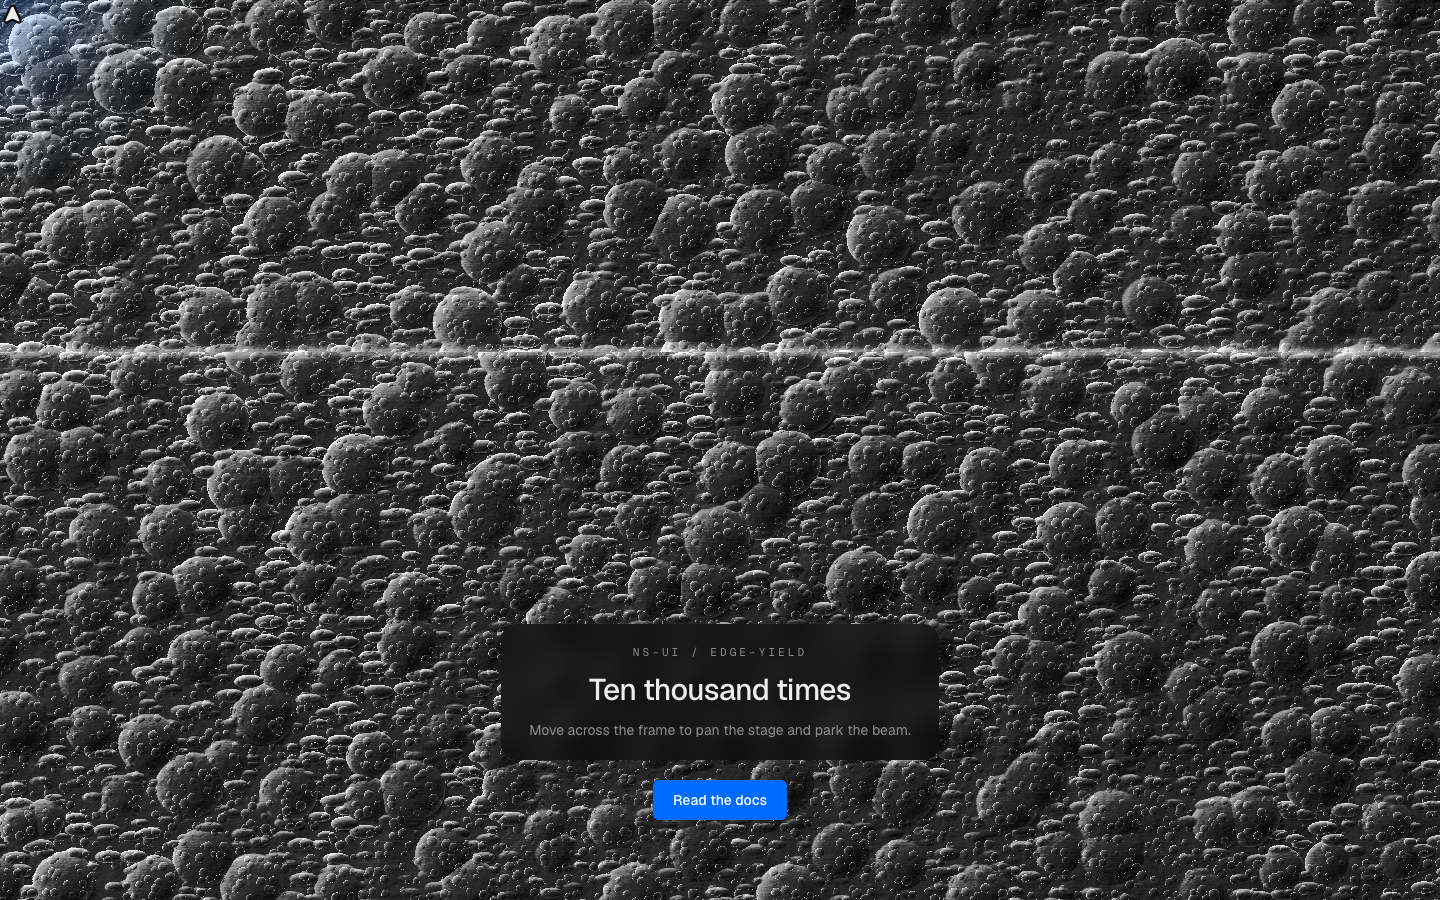
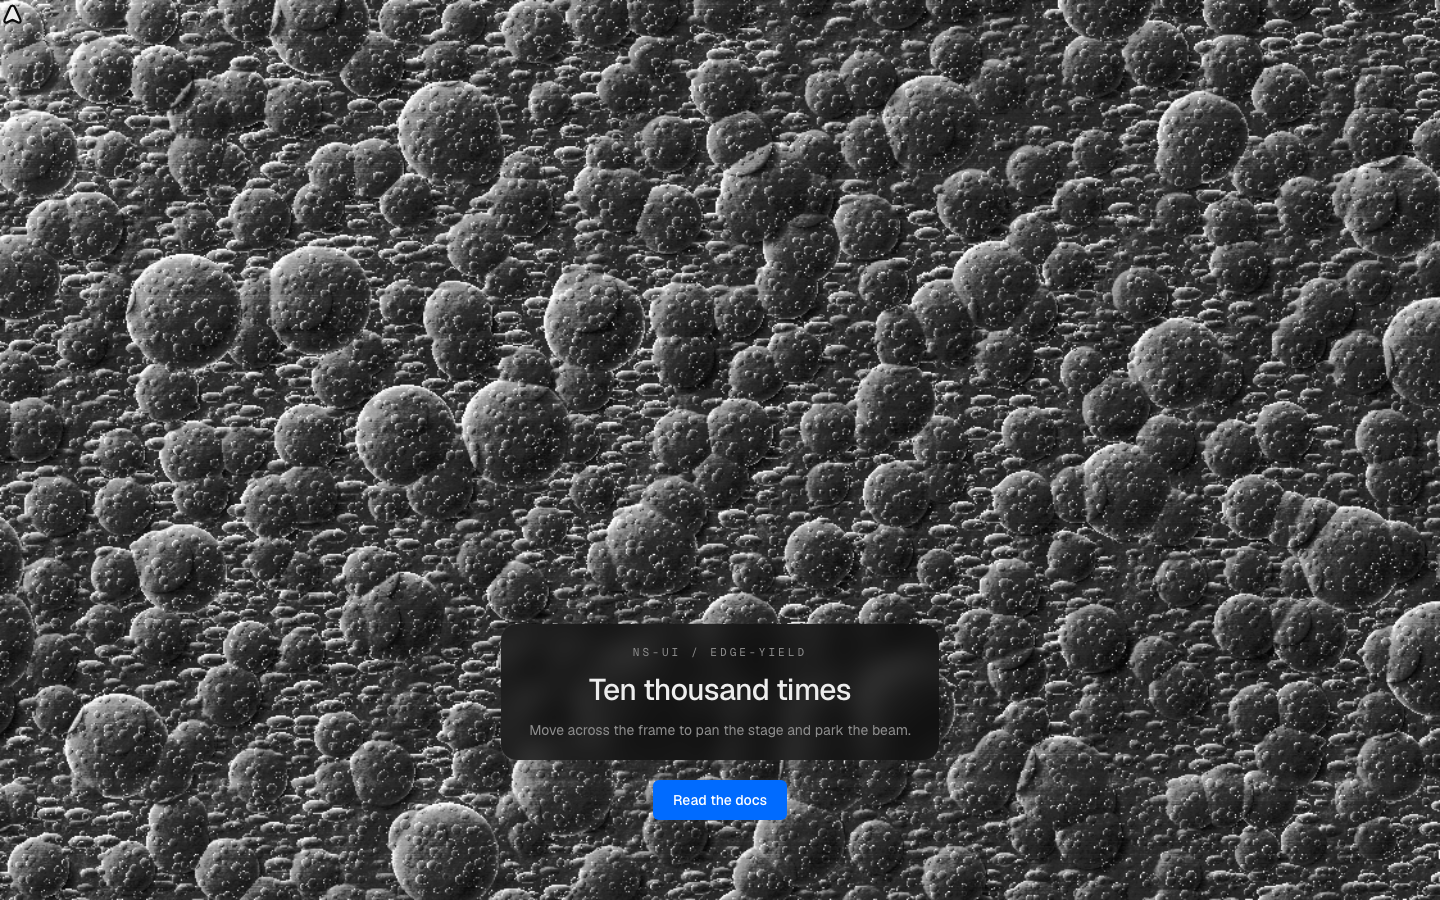
feat(edge-yield): full-bleed scanning-electron-micrograph background
Dense micro-landscape at 10,000x: edge brightening where the beam escapes at
steep angles, deep crevices, scan-line acquisition texture, secondary-electron
grain, pointer pans the stage. An SEM maps electron yield to luminance rather
than colour, so the monochrome palette is authentic rather than a constraint.

Holds vsync at full 2880x1800 with the render ladder idle: 16.7ms p50, 0/480
frames over 20ms at rest, 0/700 under sustained panning, A/B identical to
dye-whorl. The earlier 20.9ms reading was an artifact — gl.finish, readPixels
and EXT_disjoint_timer_query all return a flat 13-21ms on this stack
regardless of draw count or viewport.

diff --git a/registry/loud/edge-yield/component.tsx b/registry/loud/edge-yield/component.tsx
@@ -24,8 +24,8 @@ import { useEffect, useId, useRef } from "react";
 //                        electrons reach an Everhart-Thornley detector sitting
 //                        off to one upper-left corner. Facets turned away from
 //                        it are dim; anything with a grain between it and the
-//                        detector is in a deep, hard shadow, found by a five-
-//                        step horizon march reaching ~1.7 grain radii.
+//                        detector is in a deep, hard shadow, found by a three-
+//                        step horizon march reaching ~2 grain radii.
 //
 // Everything is in focus at once because nothing here has a lens — that
 // extreme depth of field is a property of the technique, not a choice.
@@ -132,6 +132,10 @@ const vec3 DET = vec3(-0.593, -0.526, 0.610);
 // of t moves length(DET.xy) horizontally, this is DET.z, not tan(elevation)
 const float DET_RISE = 0.610;
 
+// Ceiling, in css px, on how far the stage's motion may shear the picture
+// across the sweep line. See the note at the shear itself in main().
+const float SHEAR_MAX = 0.8;
+
 float hash21(vec2 p) {
   p = fract(p * vec2(287.13, 419.71));
   p += dot(p, p + 27.31);
@@ -229,65 +233,74 @@ float smaxH(float a, float b, float k) {
 }
 
 // ---------------------------------------------------------------------------
-// Grains. A jittered lattice of ellipsoid caps, h = A*(1 - |d|^2/r^2)^prof.
-// prof = 0.5 is an exact spheroid; slightly above it rounds the last pixel of
-// the silhouette without touching the broad slope ramp that carries the rim
-// read, which is what keeps the hottest pixel from aliasing into sparkle.
+// Grains. A jittered lattice of ellipsoid caps, h = A*sqrt(1 - |d|^2/r^2) — the
+// exact spheroid, and deliberately sqrt rather than a tunable pow(t, prof): a
+// general exponent costs TWO pow() per cell (the height and the derivative's
+// t^(prof-1)) and there are up to 45 cells per fragment across the five layers
+// plus the horizon march. The silhouette's last pixel is kept off the aliasing
+// edge by the tc floor and the smax crease instead.
 //
 // Because q = u*S, the S in the height and the S in dq/du cancel: the gradient
 // is scale-free, which is correct — a sphere has the same slopes however small
 // it is drawn — and it means every layer shares one closed form.
 // ---------------------------------------------------------------------------
 vec3 grains(vec2 u, float S, mat2 warp, mat2 warpT, float seed, float rmin,
-            float rspan, float elong, float prof, float jit, out float matId) {
+            float rspan, float elong, float jit, out float matId) {
   vec2 q = warp * u * S;
   vec2 ip = floor(q);
   vec2 f = fract(q);
-  vec3 best = vec3(0.0);
+  // The loop carries a SCORE, not a height. h = elong*r*sqrt(tc)/S is monotonic
+  // in r*r*tc, so the winner is found without a sqrt per cell, and the
+  // gradient's reciprocal and the warp transpose are paid once instead of nine
+  // times. What that buys is not the arithmetic — it is that the nine live
+  // vec3s collapse to four floats. This shader was register-spilling, and the
+  // measured cost of the specimen was a cliff rather than a slope.
+  float bs = 0.0;
+  vec2 bd = vec2(0.0);
   matId = 0.5;
   for (int y = -1; y <= 1; y++) {
     for (int x = -1; x <= 1; x++) {
       vec2 g = vec2(float(x), float(y));
       vec2 o = hash22(ip + g + seed);
-      vec2 c = g + 0.5 + (o - 0.5) * jit;
       float r = rmin + rspan * fract(o.x * 7.13 + o.y * 3.71);
-      vec2 d = f - c;
+      vec2 d = f - (g + 0.5 + (o - 0.5) * jit);
       float t = 1.0 - dot(d, d) / (r * r);
       if (t > 0.0) {
-        float tc = max(t, 0.0008);
-        float h = elong * r * pow(tc, prof) / S;
-        if (h > best.x) {
-          // dh/dq = -2*elong*prof*t^(prof-1)*d/(r*S), and dq/du = S*warp, so
-          // the two S cancel and what is left is the warp's TRANSPOSE — a
-          // sphere has the same slopes however small it is drawn
-          vec2 gr = (-2.0 * elong * prof * pow(tc, prof - 1.0) / r) * d;
-          best = vec3(h, warpT * gr);
+        float sc = r * r * max(t, 0.0008);
+        if (sc > bs) {
+          bs = sc;
+          bd = d;
           matId = o.y;
         }
       }
     }
   }
-  return best;
+  if (bs <= 0.0) return vec3(0.0);
+  // s = r*sqrt(tc), so the height is elong*s/S and inversesqrt(tc)/r is 1/s:
+  // dh/dq = -elong*d/s, and dq/du = S*warp, so the two S cancel and what is
+  // left is the warp's TRANSPOSE — a sphere has the same slopes however small
+  // it is drawn
+  float s = sqrt(bs);
+  return vec3(elong * s / S, warpT * ((-elong / s) * bd));
 }
 
 float grainsH(vec2 u, float S, mat2 warp, float seed, float rmin, float rspan,
-              float elong, float prof, float jit) {
+              float elong, float jit) {
   vec2 q = warp * u * S;
   vec2 ip = floor(q);
   vec2 f = fract(q);
-  float best = 0.0;
+  float bs = 0.0;
   for (int y = -1; y <= 1; y++) {
     for (int x = -1; x <= 1; x++) {
       vec2 g = vec2(float(x), float(y));
       vec2 o = hash22(ip + g + seed);
-      vec2 c = g + 0.5 + (o - 0.5) * jit;
       float r = rmin + rspan * fract(o.x * 7.13 + o.y * 3.71);
-      vec2 d = f - c;
+      vec2 d = f - (g + 0.5 + (o - 0.5) * jit);
       float t = 1.0 - dot(d, d) / (r * r);
-      if (t > 0.0) best = max(best, elong * r * pow(max(t, 0.0008), prof) / S);
+      if (t > 0.0) bs = max(bs, r * r * max(t, 0.0008));
     }
   }
-  return best;
+  return elong * sqrt(bs) / S;
 }
 
 // Filaments draped across the specimen: a warped ridge train. The warp comes
@@ -325,43 +338,56 @@ const mat2 IDENT = mat2(1.0, 0.0, 0.0, 1.0);
 const mat2 ROD = mat2(0.918, 0.397, -0.834, 1.928);
 const mat2 ROD_T = mat2(0.918, -0.834, 0.397, 1.928);
 
-void specimen(vec2 u, float dens, out vec2 grad, out float matId, out float coarse) {
+void specimen(vec2 u, float dens, out vec2 grad, out float matId, out float marchH) {
   float k = u_px * 2.6;
   float m1;
   float m2;
 
   vec3 h = fbmd(u, 2.9, 0.026);
+  // a sparse population of much larger bodies. Without it every grain is the
+  // same size and the field reads as a manufactured lattice — packed roe rather
+  // than a specimen. r stays well under half a cell, so most cells are empty and
+  // the big ones arrive at an irregular spacing the eye cannot pre-empt.
+  float m0;
+  h = smaxG(h, grains(u, 4.2 * dens, IDENT, IDENT, 137.0,
+                      0.15, 0.19, 0.86, 0.95, m0), k);
   h = smaxG(h, fibre(u, FIB_A, 5.6 * dens, 0.0125, 0.55, 3.1), k);
   h = smaxG(h, fibre(u, FIB_B, 8.3 * dens, 0.0085, 0.42, 17.7), k);
-  h = smaxG(h, grains(u, 10.5 * dens, IDENT, IDENT, 5.0,
-                      0.30, 0.20, 0.80, 0.575, 0.72, m1), k);
+  vec3 g1 = grains(u, 10.5 * dens, IDENT, IDENT, 5.0,
+                   0.30, 0.20, 0.80, 0.72, m1);
+  // the march's reference height, captured here for free: it must be THIS
+  // layer's raw height, because this layer is the only thing the march samples
+  marchH = g1.x;
+  h = smaxG(h, g1, k);
   h = smaxG(h, grains(u, 24.0 * dens, ROD, ROD_T, 41.0,
-                      0.26, 0.26, 0.90, 0.560, 0.80, m2), k);
-  coarse = h.x;
-  matId = mix(m1, m2, 0.4);
+                      0.26, 0.26, 0.90, 0.80, m2), k);
+  // the big bodies get their own atomic number too, so a boulder is not forced
+  // to the same brightness as the small grains it is sitting among
+  matId = mix(mix(m1, m2, 0.4), m0, 0.35);
 
   // debris and micro-relief sit ON whatever surface won, so they are summed
   // rather than unioned — a fleck of dust on top of a grain is above it, and a
   // union would hide every small thing behind every large one
   float m3;
   h += grains(u, 58.0 * dens, IDENT, IDENT, 91.0,
-              0.20, 0.22, 0.85, 0.58, 0.88, m3) * 0.85;
+              0.20, 0.22, 0.85, 0.88, m3) * 0.85;
   h += fbmd(u, 21.0, 0.0042);
   h += fbmd(u, 96.0, 0.0016);
 
   grad = h.yz;
 }
 
-float specimenH(vec2 u, float dens, float lod) {
-  float k = u_px * 2.6;
-  float h = fbmOnly(u, 2.9, 0.026);
-  h = smaxH(h, fibreH(u, FIB_A, 5.6 * dens, 0.0125, 0.55, 3.1), k);
-  h = smaxH(h, grainsH(u, 10.5 * dens, IDENT, 5.0, 0.30, 0.20, 0.80, 0.575, 0.72), k);
-  if (lod > 0.5) {
-    h = smaxH(h, fibreH(u, FIB_B, 8.3 * dens, 0.0085, 0.42, 17.7), k);
-    h = smaxH(h, grainsH(u, 24.0 * dens, ROD, 41.0, 0.26, 0.26, 0.90, 0.560, 0.80), k);
-  }
-  return h;
+// What the march samples: the round-grain population and NOTHING else.
+//
+// Cost here is a cliff, not a slope — this shader lives near the edge of its
+// register budget, and adding a second lattice layer plus the substrate fbm to
+// the march once took it from ~15ms to 50-75ms, a 2.3x increase in work for a
+// 3.5x increase in time. So the march gets exactly one layer, and h0 is
+// that SAME layer's raw height at u (captured in specimen() for free) rather
+// than the full surface: comparing a full-surface h0 against a one-layer sample
+// biases every comparison and the frame loses its shadows altogether.
+float specimenH(vec2 u, float dens) {
+  return grainsH(u, 10.5 * dens, IDENT, 5.0, 0.30, 0.20, 0.80, 0.72);
 }
 
 // Horizon march toward the detector. The reach matters more than the step
@@ -370,12 +396,12 @@ float specimenH(vec2 u, float dens, float lod) {
 // heightfield, the exact generic read this is trying not to be.
 float collect(vec2 u, float h0, float dens) {
   float s = 1.0;
-  float t = u_px * 3.0;
-  for (int i = 0; i < 5; i++) {
-    float hs = specimenH(u + DET.xy * t, dens, i < 2 ? 1.0 : 0.0);
+  float t = u_px * 4.0;
+  for (int i = 0; i < 3; i++) {
+    float hs = specimenH(u + DET.xy * t, dens);
     float over = hs - (h0 + t * DET_RISE);
     s = min(s, 1.0 - clamp(over / (u_px * 5.0 + t * 0.30), 0.0, 1.0));
-    t *= 2.20;
+    t *= 4.2;
   }
   return s;
 }
@@ -412,12 +438,23 @@ void main() {
   vec2 cu = (sp - u_size * 0.5) * u_px;
   float cs = cos(u_rot);
   float sn = sin(u_rot);
-  vec2 u = mat2(cs, sn, -sn, cs) * cu + u_stage - u_lagVel * lag;
+  // The shear this lag buys has to stay SUB-PIXEL. Left unbounded it is
+  // |u_lagVel| * SWEEP_PERIOD / u_px css px: about 6px on the drift alone, and
+  // up to ~75px while the hand is panning, since the pan velocity is folded
+  // into u_lagVel. At that size the sweep line stops reading as a scan and
+  // reads as a tear — the specimen above it is a different picture from the
+  // one below, which is the one thing a continuous surface must never do.
+  // Saturating instead of clamping keeps it exactly linear in the slow regime
+  // that is honest, and asymptotic to SHEAR_MAX css px at any speed.
+  vec2 sh = u_lagVel * lag;
+  float shm = SHEAR_MAX * u_px;
+  sh *= shm / (length(sh) + shm);
+  vec2 u = mat2(cs, sn, -sn, cs) * cu + u_stage - sh;
 
   vec2 grad;
   float matId;
-  float coarse;
-  specimen(u, dens, grad, matId, coarse);
+  float marchH;
+  specimen(u, dens, grad, matId, marchH);
 
   float gm = length(grad);
   if (gm > 12.0) grad *= 12.0 / gm;
@@ -431,7 +468,7 @@ void main() {
   // atomic-number contrast: different grains are different stuff
   delta *= 0.86 + 0.30 * matId;
 
-  float shadow = collect(u, coarse, dens);
+  float shadow = collect(u, marchH, dens);
   float facing = max(dot(n, DET), 0.0);
   float eta = 0.30 + 0.70 * facing * shadow;
   // a small isotropic pedestal: electrons that scatter off the chamber wall and
@@ -476,9 +513,16 @@ void main() {
   sig += shot * 0.115 * u_noise * (0.35 + 0.65 * sqrt(max(sig, 0.0))) * mix(1.0, 0.28, spot);
 
   // the sweep line itself: the beam is on it right now
+  // its amplitude is the whole question. At 0.22 it was a saturated rule right
+  // across the frame — measured at +76/255 over the surrounding rows, five
+  // times the brightest ordinary grain row, which is not what a beam passing
+  // over a line looks like. Kept just clear of the shot noise so it reads as
+  // the pass going by, and rolled off where the signal is already high so it
+  // cannot blow a rim out.
   float sweepD = abs(yf - u_sweep);
-  sig += 0.22 * exp(-sweepD * sweepD * 26000.0);
-  sig += 0.05 * exp(-sweepD * sweepD * 700.0);
+  float onLine = 0.040 * exp(-sweepD * sweepD * 26000.0)
+               + 0.016 * exp(-sweepD * sweepD * 700.0);
+  sig += onLine * (1.0 - 0.55 * clamp(sig, 0.0, 1.0));
 
   float L = clamp((sig - 0.5) * u_contrast + 0.5 + u_bias, 0.0, 1.0);
   gl_FragColor = vec4(ramp(L), 1.0);
@@ -886,11 +930,14 @@ export function EdgeYield({
       running = false;
     };
 
-    // DPR is capped at 2, not the 1.5 a cheaper full-bleed shader could get away
-    // with: shot noise, the scan comb and the rim band are all high-frequency
-    // structure, and a reduced backing store destroys exactly those first. The
-    // cost is paid back by the analytic gradient — one field evaluation for the
-    // normal instead of three — and bounded by the adaptive ladder above.
+    // Full DPR 2. The high-frequency structure — shot noise, the scan comb, the
+    // rim band — is what a reduced backing store destroys first, so anything
+    // under 2 is the first thing this component gives away and the last thing
+    // it should. It was capped at 1.5 for a while because the shader could not
+    // hold 60fps at 2880x1800; that was a register-spill in the grain lattice,
+    // not a fill-rate wall, and fixing it left the frame at ~2.8ms with the
+    // ladder resting on its top rung. The ladder stays as insurance for
+    // machines slower than this one, not as the thing that buys the frame rate.
     const applyBacking = () => {
       if (cssW < 2 || cssH < 2) return;
       dpr = Math.min(window.devicePixelRatio || 1, 2) * SCALES[scaleIdx];
